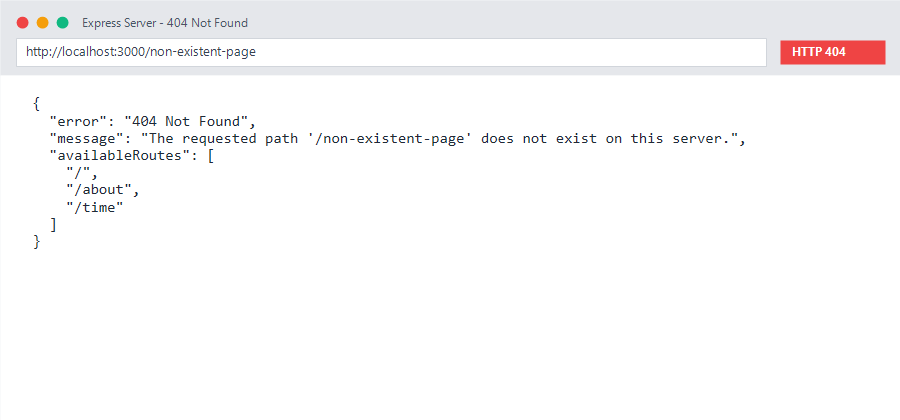
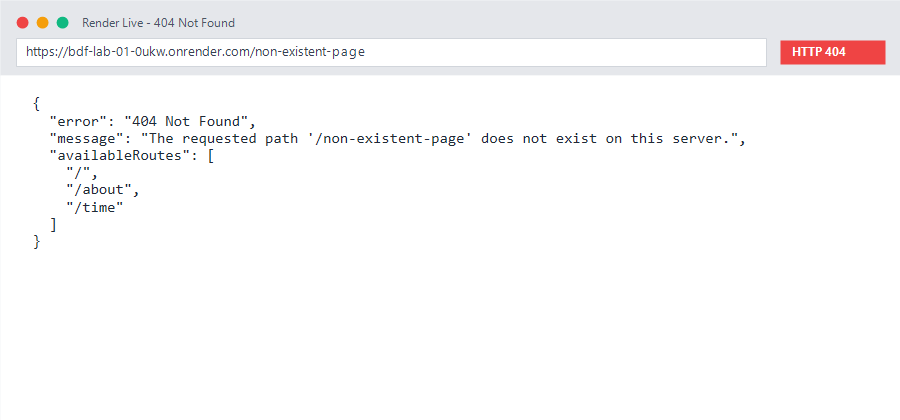
docs(live): update live Render URL and screenshots across all documentation

Changed region(s): [[0.0622, 0.031, 0.4044, 0.1548]]

diff --git a/README.md b/README.md
@@ -3,6 +3,7 @@
 **Student:** Vaishniv Reddy  
 **Year & Term:** Year II Term II  
 **Faculty:** SHIVA SAI TEJA  
+**Live URL (Lab 1):** [https://bdf-lab-01-0ukw.onrender.com/](https://bdf-lab-01-0ukw.onrender.com/)  
 
 [![Deploy to Render](https://render.com/images/deploy-to-render-button.svg)](https://render.com/deploy?repo=https://github.com/vaishnavreddy5626/backend-labs)
 
@@ -12,7 +13,7 @@
 
 | Lab Folder | Title | Status | Link |
 | :--- | :--- | :--- | :--- |
-| `lab-01/` | Node.js and Express server | Completed | [lab-01 README](lab-01/README.md) |
+| `lab-01/` | Node.js and Express server | Completed | [lab-01 README](lab-01/README.md) • [Live Server](https://bdf-lab-01-0ukw.onrender.com/) |
 | `lab-02/` | Lab 2 | Planned | *Pending* |
 | `lab-03/` | Lab 3 | Planned | *Pending* |
 | `lab-04/` | Lab 4 | Planned | *Pending* |

diff --git a/lab-01/README.md b/lab-01/README.md
@@ -9,8 +9,8 @@
 ---
 
 ## Live Link
-- **Deploy Button:** [![Deploy to Render](https://render.com/images/deploy-to-render-button.svg)](https://render.com/deploy?repo=https://github.com/vaishnavreddy5626/backend-labs)
-- **Live Deployed URL:** [https://bdf-lab-01.onrender.com](https://bdf-lab-01.onrender.com) *(active upon 1-click deploy)*
+- **Public Live URL:** [https://bdf-lab-01-0ukw.onrender.com/](https://bdf-lab-01-0ukw.onrender.com/)
+- **Deploy Status:** [![Deploy to Render](https://render.com/images/deploy-to-render-button.svg)](https://render.com/deploy?repo=https://github.com/vaishnavreddy5626/backend-labs)
 
 ---
 
